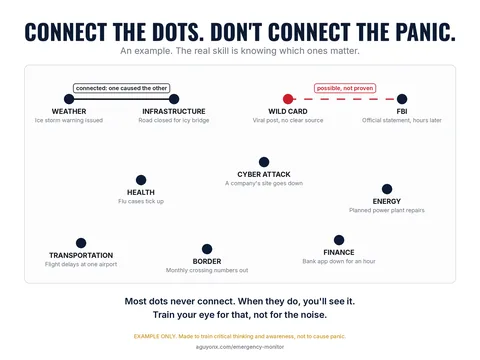
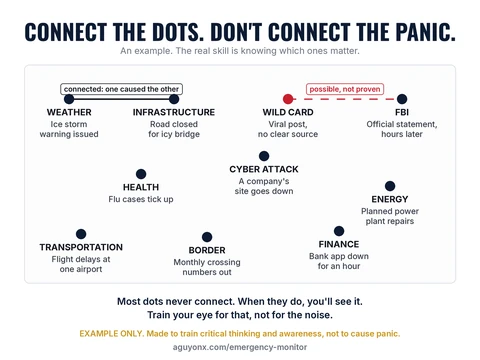
Emergency Monitor: sharper Connect the Dots graphic and Open full size link
Replace the infographic with the larger-caption version, refresh the
thumbnail, and let the lightbox open the full-resolution PNG in a new tab
and scroll the image at natural size on phones.

diff --git a/src/routes/emergency-monitor.tsx b/src/routes/emergency-monitor.tsx
@@ -484,6 +484,7 @@ function FilterChip({ active, onClick, count, children, attr, compact }: { activ
 const DOTS_TITLE = "Connect the Dots. Don't Connect the Panic.";
 const DOTS_THUMB = "/images/emergency-monitor/connect-the-dots-thumb.webp";
 const DOTS_FULL = "/images/emergency-monitor/connect-the-dots.webp";
+const DOTS_PNG = "/images/emergency-monitor/connect-the-dots.png";
 const DOTS_ALT = "Infographic titled Connect the Dots. Don't Connect the Panic, with the subtitle An example. The real skill is knowing which ones matter. A solid line labeled connected: one caused the other links Weather (ice storm warning issued) to Infrastructure (road closed for icy bridge). A dashed red line labeled possible, not proven links Wild Card (viral post, no clear source) to FBI (official statement, hours later). Unconnected dots are labeled Health (flu cases tick up), Cyber Attack (a company's site goes down), Energy (planned power plant repairs), Transportation (flight delays at one airport), Border (monthly crossing numbers out), and Finance (bank app down for an hour). The footer says Most dots never connect. When they do, you'll see it. Train your eye for that, not for the noise, and notes this is an example only, made to train critical thinking and awareness, not to cause panic.";
 const DOTS_BULLETS = [
   "Most alerts have nothing to do with each other.",
@@ -541,13 +542,26 @@ function ConnectDotsLightbox({
             </Dialog.Close>
           </div>
           <div className="min-h-0 flex-1 overflow-y-auto px-4 pb-5 sm:px-5">
-            <img
-              src={DOTS_FULL}
-              alt={DOTS_ALT}
-              width={1600}
-              height={1200}
-              className="mt-3 max-h-[min(46vh,28rem)] w-full rounded-lg bg-white object-contain"
-            />
+            <div className="mt-3 overflow-auto overscroll-contain touch-auto rounded-lg bg-white">
+              <img
+                src={DOTS_FULL}
+                alt={DOTS_ALT}
+                width={1600}
+                height={1200}
+                className="h-auto w-[1600px] max-w-none sm:h-auto sm:w-full sm:max-w-full"
+              />
+            </div>
+            <p className="mt-2">
+              <a
+                href={DOTS_PNG}
+                target="_blank"
+                rel="noopener"
+                data-connect-dots-fullsize
+                className="text-sm font-semibold text-gold underline decoration-gold/70 underline-offset-2 hover:text-white focus-visible:outline-none focus-visible:ring-2 focus-visible:ring-white"
+              >
+                Open full size
+              </a>
+            </p>
             <ul className="mt-4 list-disc space-y-2 pl-5 text-sm leading-relaxed text-[#F6F3EA] sm:text-base">
               {DOTS_BULLETS.map((b) => (
                 <li key={b}>{b}</li>
